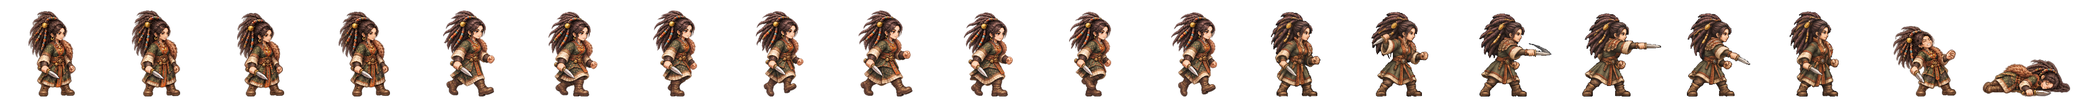
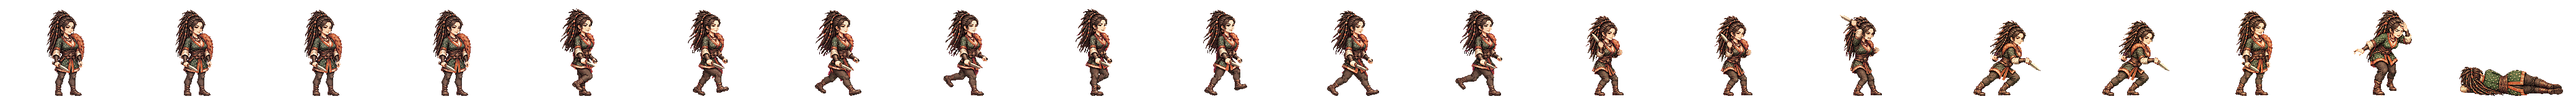
환나 가비 새 전투 띠를 게임에 넣음(서기·걷기·단검 내려베기 여덟 칸·쓰러짐·구슬 머리 쓸어 넘기기)
Claude-Session: https://claude.ai/code/session_01TRiuN7s6aDfSnaHxrkctmU

Changed region(s): [[0.0, 0.0938, 1.0, 0.9688]]

diff --git a/src/realm/data/spritePx.ts b/src/realm/data/spritePx.ts
@@ -1,3 +1,3 @@
 /** public/realm/anim-px/manifest.json 의 사본 — tools/sprite-normalize.mjs 가 만든다 (손으로 고치지 말 것). 칸 [가로, 세로] · feet = 발 줄(칸 위에서 y) · bodyPx = 서 있는 몸 키 */
 import { expandManifest } from './sprite-manifest.ts'
-export const SPRITE_PX: Readonly<Record<string, { readonly cell: readonly [number, number]; readonly feet: number; readonly bodyPx: number; readonly kind: 'general' | 'soldier' | 'folk' | 'crowd'; readonly cells: number }>> = expandManifest<{ readonly cell: readonly [number, number]; readonly feet: number; readonly bodyPx: number; readonly kind: 'general' | 'soldier' | 'folk' | 'crowd'; readonly cells: number }>([{"cell":[166,128],"feet":126,"bodyPx":124,"kind":"soldier","cells":20},{"cell":[116,128],"feet":126,"bodyPx":117,"kind":"soldier","cells":20},{"cell":[127,128],"feet":126,"bodyPx":116,"kind":"soldier","cells":20},{"cell":[269,128],"feet":126,"bodyPx":126,"kind":"soldier","cells":20},{"cell":[503,128],"feet":126,"bodyPx":127,"kind":"soldier","cells":20},{"cell":[614,128],"feet":126,"bodyPx":126,"kind":"soldier","cells":20},{"cell":[200,160],"feet":156,"bodyPx":138,"kind":"general","cells":20},{"cell":[208,160],"feet":155,"bodyPx":138,"kind":"general","cells":20},{"cell":[208,160],"feet":154,"bodyPx":138,"kind":"general","cells":20},{"cell":[304,160],"feet":155,"bodyPx":135,"kind":"general","cells":20},{"cell":[224,160],"feet":156,"bodyPx":139,"kind":"general","cells":20},{"cell":[184,160],"feet":156,"bodyPx":138,"kind":"general","cells":20},{"cell":[208,160],"feet":154,"bodyPx":136,"kind":"general","cells":20},{"cell":[240,160],"feet":156,"bodyPx":138,"kind":"general","cells":20},{"cell":[232,160],"feet":156,"bodyPx":138,"kind":"general","cells":20},{"cell":[208,160],"feet":156,"bodyPx":138,"kind":"general","cells":20},{"cell":[192,160],"feet":156,"bodyPx":138,"kind":"general","cells":20},{"cell":[168,160],"feet":156,"bodyPx":124,"kind":"general","cells":20},{"cell":[216,160],"feet":156,"bodyPx":130,"kind":"general","cells":20},{"cell":[200,160],"feet":156,"bodyPx":116,"kind":"general","cells":20},{"cell":[200,160],"feet":156,"bodyPx":135,"kind":"general","cells":20},{"cell":[280,160],"feet":156,"bodyPx":138,"kind":"general","cells":20},{"cell":[232,160],"feet":155,"bodyPx":138,"kind":"general","cells":20},{"cell":[232,160],"feet":156,"bodyPx":134,"kind":"general","cells":20},{"cell":[144,160],"feet":156,"bodyPx":70,"kind":"general","cells":20},{"cell":[208,160],"feet":156,"bodyPx":70,"kind":"general","cells":20},{"cell":[192,160],"feet":156,"bodyPx":70,"kind":"general","cells":20},{"cell":[240,160],"feet":155,"bodyPx":138,"kind":"general","cells":20},{"cell":[160,160],"feet":156,"bodyPx":135,"kind":"general","cells":20},{"cell":[192,160],"feet":156,"bodyPx":128,"kind":"general","cells":20},{"cell":[224,160],"feet":155,"bodyPx":138,"kind":"general","cells":20},{"cell":[232,160],"feet":156,"bodyPx":139,"kind":"general","cells":20},{"cell":[216,160],"feet":156,"bodyPx":138,"kind":"general","cells":20},{"cell":[208,160],"feet":156,"bodyPx":134,"kind":"general","cells":20},{"cell":[176,160],"feet":156,"bodyPx":130,"kind":"general","cells":20},{"cell":[248,160],"feet":156,"bodyPx":138,"kind":"general","cells":20},{"cell":[248,160],"feet":155,"bodyPx":138,"kind":"general","cells":20},{"cell":[192,160],"feet":155,"bodyPx":138,"kind":"general","cells":20},{"cell":[192,160],"feet":156,"bodyPx":124,"kind":"general","cells":20},{"cell":[208,160],"feet":154,"bodyPx":131,"kind":"general","cells":20},{"cell":[256,160],"feet":156,"bodyPx":138,"kind":"general","cells":20},{"cell":[232,160],"feet":156,"bodyPx":73,"kind":"general","cells":20},{"cell":[256,160],"feet":155,"bodyPx":138,"kind":"general","cells":20},{"cell":[264,160],"feet":156,"bodyPx":138,"kind":"general","cells":20},{"cell":[224,160],"feet":156,"bodyPx":138,"kind":"general","cells":20},{"cell":[224,160],"feet":156,"bodyPx":128,"kind":"general","cells":20},{"cell":[176,160],"feet":156,"bodyPx":129,"kind":"general","cells":20},{"cell":[208,160],"feet":154,"bodyPx":139,"kind":"general","cells":20},{"cell":[208,160],"feet":156,"bodyPx":132,"kind":"general","cells":20},{"cell":[216,160],"feet":155,"bodyPx":138,"kind":"general","cells":20},{"cell":[184,160],"feet":156,"bodyPx":122,"kind":"general","cells":20},{"cell":[176,160],"feet":156,"bodyPx":138,"kind":"general","cells":20},{"cell":[280,160],"feet":155,"bodyPx":133,"kind":"general","cells":20},{"cell":[176,160],"feet":156,"bodyPx":70,"kind":"general","cells":20},{"cell":[186,128],"feet":126,"bodyPx":127,"kind":"soldier","cells":20},{"cell":[298,128],"feet":126,"bodyPx":126,"kind":"soldier","cells":20},{"cell":[82,128],"feet":126,"bodyPx":114,"kind":"folk","cells":8},{"cell":[134,128],"feet":126,"bodyPx":119,"kind":"soldier","cells":20},{"cell":[380,128],"feet":126,"bodyPx":124,"kind":"soldier","cells":20},{"cell":[114,128],"feet":126,"bodyPx":115,"kind":"soldier","cells":20},{"cell":[122,128],"feet":126,"bodyPx":114,"kind":"soldier","cells":20},{"cell":[254,128],"feet":126,"bodyPx":128,"kind":"soldier","cells":20},{"cell":[438,128],"feet":126,"bodyPx":126,"kind":"soldier","cells":20},{"cell":[88,128],"feet":126,"bodyPx":113,"kind":"folk","cells":8},{"cell":[100,128],"feet":126,"bodyPx":115,"kind":"folk","cells":8},{"cell":[108,128],"feet":126,"bodyPx":115,"kind":"folk","cells":8},{"cell":[63,128],"feet":126,"bodyPx":113,"kind":"folk","cells":8},{"cell":[69,96],"feet":96,"bodyPx":96,"kind":"crowd","cells":1},{"cell":[54,96],"feet":96,"bodyPx":96,"kind":"crowd","cells":1},{"cell":[47,96],"feet":96,"bodyPx":96,"kind":"crowd","cells":1},{"cell":[49,96],"feet":96,"bodyPx":96,"kind":"crowd","cells":1},{"cell":[57,96],"feet":96,"bodyPx":96,"kind":"crowd","cells":1},{"cell":[55,96],"feet":96,"bodyPx":96,"kind":"crowd","cells":1},{"cell":[45,96],"feet":96,"bodyPx":96,"kind":"crowd","cells":1},{"cell":[53,96],"feet":96,"bodyPx":96,"kind":"crowd","cells":1},{"cell":[64,96],"feet":96,"bodyPx":96,"kind":"crowd","cells":1},{"cell":[184,160],"feet":156,"bodyPx":124,"kind":"general","cells":20},{"cell":[184,160],"feet":156,"bodyPx":134,"kind":"general","cells":20},{"cell":[224,160],"feet":156,"bodyPx":133,"kind":"general","cells":20},{"cell":[192,160],"feet":156,"bodyPx":135,"kind":"general","cells":20},{"cell":[184,160],"feet":156,"bodyPx":137,"kind":"general","cells":20},{"cell":[216,160],"feet":156,"bodyPx":134,"kind":"general","cells":20},{"cell":[216,160],"feet":156,"bodyPx":132,"kind":"general","cells":20},{"cell":[168,160],"feet":156,"bodyPx":138,"kind":"general","cells":20},{"cell":[288,160],"feet":156,"bodyPx":138,"kind":"general","cells":20},{"cell":[192,160],"feet":156,"bodyPx":118,"kind":"general","cells":20},{"cell":[208,160],"feet":154,"bodyPx":134,"kind":"general","cells":20},{"cell":[192,160],"feet":157,"bodyPx":139,"kind":"general","cells":20},{"cell":[184,160],"feet":156,"bodyPx":128,"kind":"general","cells":20},{"cell":[240,160],"feet":156,"bodyPx":128,"kind":"general","cells":20},{"cell":[184,160],"feet":156,"bodyPx":132,"kind":"general","cells":20},{"cell":[208,160],"feet":156,"bodyPx":123,"kind":"general","cells":20},{"cell":[208,160],"feet":154,"bodyPx":137,"kind":"general","cells":20},{"cell":[176,160],"feet":156,"bodyPx":116,"kind":"general","cells":20},{"cell":[272,160],"feet":156,"bodyPx":138,"kind":"general","cells":20},{"cell":[176,160],"feet":156,"bodyPx":122,"kind":"general","cells":20},{"cell":[232,160],"feet":156,"bodyPx":127,"kind":"general","cells":20},{"cell":[176,160],"feet":156,"bodyPx":137,"kind":"general","cells":20},{"cell":[184,160],"feet":156,"bodyPx":133,"kind":"general","cells":20}],[["axe",0],["bandit-chief",1],["bandit-club",2],["boat",3],["bow",4],["crossbow",5],["gen-adogan",6],["gen-alpyeong",7],["gen-ara",8],["gen-areum",8],["gen-aryeong",9],["gen-bakdal",6],["gen-baram",10],["gen-bdanbi",11],["gen-beom",12],["gen-beombal",11],["gen-beomi",13],["gen-bira",14],["gen-biryu",15],["gen-budeul",8],["gen-byeol",16],["gen-daemusin",17],["gen-daeso",18],["gen-dallae2",11],["gen-dalli",11],["gen-damul",19],["gen-danbi",15],["gen-dangung",16],["gen-darae",20],["gen-dokmudeom",7],["gen-duman",21],["gen-eomni",22],["gen-eureum",23],["gen-g-bow",24],["gen-g-spear",25],["gen-g-sword",26],["gen-gaennae",6],["gen-gamsil",27],["gen-gaon",28],["gen-geota",15],["gen-geumbawi",11],["gen-geumha",29],["gen-goeun",15],["gen-gom",30],["gen-gomok",15],["gen-gureum",27],["gen-guryema",16],["gen-gwaeyu",14],["gen-haebi",8],["gen-haedal",6],["gen-haesol",31],["gen-halla",7],["gen-heo",8],["gen-hneoul",11],["gen-hogong",32],["gen-hojin",15],["gen-horselord",33],["gen-hwalmi",34],["gen-hyeokgeose",16],["gen-hyeopbo",6],["gen-irang",15],["gen-jibaekho",35],["gen-jinha",36],["gen-jita",37],["gen-jumong",38],["gen-keundol",7],["gen-maehwa",39],["gen-maenun",16],["gen-malgalgi",40],["gen-mari",13],["gen-maro",35],["gen-maryeo",15],["gen-mdallae",31],["gen-mir",6],["gen-mount",41],["gen-mulbeom",42],["gen-mulsae",32],["gen-musoe",32],["gen-noeul",8],["gen-nuri",43],["gen-ocheongan",44],["gen-odi",8],["gen-odogan",6],["gen-ogan",16],["gen-oi",45],["gen-olddaeso",23],["gen-onjo",46],["gen-pidogan",15],["gen-sagong",47],["gen-sdallae",6],["gen-sincheongan",32],["gen-singwigan",32],["gen-sinneoul",8],["gen-sobeol",22],["gen-soebi",6],["gen-soebo",48],["gen-soenun",35],["gen-sogeumbi",49],["gen-songbi",44],["gen-songyang",50],["gen-sori",51],["gen-soseono",52],["gen-suro",16],["gen-tahae",6],["gen-tneoul",8],["gen-w-bow",24],["gen-w-spear",53],["gen-waechief",15],["gen-wan",32],["gen-yeodogan",15],["gen-yucheongan",15],["gen-yusugan",35],["horse",54],["marine",55],["migrant",56],["militia",57],["pike",58],["pirate-captain",59],["pirate-sword",60],["shield",61],["spear",62],["villager-builder",63],["villager-farmer",64],["villager-porter",65],["villager-woman",66],["crowd-b1",67],["crowd-b2",68],["crowd-b3",69],["crowd-b4",70],["crowd-b5",71],["crowd-b6",72],["crowd-f1",67],["crowd-f2",72],["crowd-f3",73],["crowd-f4",74],["crowd-f5",67],["crowd-f6",75],["gen-dalbit",15],["gen-base-g-07-drunk-warrior",16],["gen-base-g-40-anya-adan",15],["gen-base-w-13-young-archer",8],["gen-base-g-03-sea-trader",13],["gen-base-w-10-pirate-captain",47],["gen-base-w-64-miri-dallae",47],["gen-base-g-41-goja-bau",13],["gen-base-g-42-dokro-garam",43],["gen-base-g-09-farmer-conscript",32],["gen-base-w-02-goguryeo-lady",32],["gen-base-w-17-mahan-pearl-diver",8],["gen-base-g-17-saro-isageum",48],["gen-base-g-18-daegaya-king",76],["gen-base-g-35-dabeol-dalgu",15],["gen-base-g-19-sabeol-veteran",32],["gen-base-w-23-usisan-whale-queen",8],["gen-base-g-36-gammun-gamdol",44],["gen-base-g-20-samul-sea-lord",40],["gen-base-g-37-eumjeup-jeup",11],["gen-base-g-38-chopal-palmae",16],["gen-base-w-75-daegaya-soemoe",16],["gen-base-g-45-dabeol-deulgae",11],["gen-base-g-04-jinhan-giant",15],["gen-base-g-08-veteran",15],["gen-base-w-18-jinhan-salt-widow",15],["gen-base-w-12-court-dancer",77],["gen-base-w-83-gyeonji-beodeul",78],["gen-base-w-05-baekje-queen",79],["gen-base-w-21-baekje-court-dancer",11],["gen-base-g-01-master-smith",80],["gen-base-g-93-jomun-solgae",34],["gen-base-g-57-bihwa-neup",13],["gen-base-w-72-eumjeup-beol",8],["gen-base-w-102-garak-dana",47],["gen-base-g-68-baekje-onnuri",15],["gen-base-w-27-mokji-jinha",6],["gen-base-g-22-ungcheon-gomnae",6],["gen-base-g-23-sangdang-soedal",15],["gen-base-g-24-wansan-onsan",6],["gen-base-g-25-balla-keunmoe",32],["gen-base-g-61-heomcheuk-bawi",32],["gen-base-g-88-wander-soeul",44],["gen-base-w-14-feast-spy",6],["gen-base-g-12-silla-youth",81],["gen-base-w-08-mahan-warrior",8],["gen-base-g-62-beonye-hanul",13],["gen-base-g-63-heomcheuk-beogeum",15],["gen-base-g-84-wander-seoneul",15],["gen-base-w-50-siljik-mulga",32],["gen-base-g-46-uga-nureongso",32],["gen-base-w-80-usan-gangchi",13],["gen-base-g-47-guga-sanyanggae",32],["gen-base-w-76-gampyeong-baetsagong",8],["gen-base-g-05-mahan-chieftain",82],["gen-base-g-58-usan-uhae",15],["gen-base-g-27-maek-maekdol",15],["gen-base-w-53-hwanna-gabi",83],["gen-base-w-29-golpo-janmul",35],["gen-base-g-53-baekje-haeru",6],["gen-base-w-71-yeonna-neoul",13],["gen-base-w-79-yangmaek-solmae",32],["gen-base-w-34-chopal-deulme",8],["gen-base-g-44-maga-malgup",84],["gen-base-w-31-dabeol-dalbit",47],["gen-base-g-51-biryuna-mulgyeol",44],["gen-base-g-48-gwanna-musoe",15],["gen-base-g-32-uga-sodu",14],["gen-base-g-49-goguryeo-sona",85],["gen-base-g-30-gwanna-soemoe",44],["gen-base-g-52-tamna-oreum",11],["gen-base-g-29-yeonna-myeongsol",38],["gen-base-w-56-dongokjeo-sogeum",86],["gen-base-g-54-mokji-mahan",14],["gen-base-g-33-jeoga-metdol",16],["gen-base-w-36-baekje-maena",8],["gen-base-w-38-sangdang-bulmae",6],["gen-base-w-39-gosaburi-galmae",87],["gen-base-w-40-mujin-munui",48],["gen-base-w-41-hwanna-beodeul",88],["gen-base-w-43-uga-nuri",40],["gen-base-w-45-tamna-oreumbi",11],["gen-base-g-60-golbeol-golgae",11],["gen-base-g-61-apdok-ap",32],["gen-base-g-62-gammun-gamnamu",6],["gen-base-g-63-chopal-yeoul",35],["gen-base-g-64-michuhol-sogeumkkun",13],["gen-base-g-65-sangdang-soemangchi",44],["gen-base-g-66-geonma-malbalgup",89],["gen-base-g-67-gosaburi-buri",90],["gen-base-g-68-mujin-bitgoeul",11],["gen-base-g-69-goryong-yong",44],["gen-base-g-70-siljik-pado",13],["gen-base-w-81-byeokjin-byeolbit",14],["gen-base-w-46-geonma-maru",35],["gen-base-w-48-mujin-mudeung",13],["gen-base-g-26-gampyeong-gaetbeol",14],["gen-base-g-60-eupcha-hangyeol",91],["gen-base-g-15-shaman-man",32],["gen-base-g-85-wander-ure",35],["gen-base-g-43-hwanna-amnok",15],["gen-base-g-50-bullae-gwaha",79],["gen-base-g-55-saro-bakdal",15],["gen-base-g-56-haseulla-gwahama",6],["gen-base-w-06-buyeo-huntress",92],["gen-base-w-22-dongye-tiger-huntress",8],["gen-base-w-25-bihwa-priestess",32],["gen-base-w-24-apdok-queen",11],["gen-base-w-61-iseo-sinae",15],["gen-base-w-26-iseo-tomboy-general",8],["gen-base-g-59-yangmaek-maekson",93],["gen-aw1-haebi",44],["gen-aw1-soseono",94],["gen-aw1-gamsil",11],["gen-aw1-mir",51],["gen-aw1-dangung",6],["gen-aw1-ara",44],["gen-aw1-jumong",95],["gen-aw1-onjo",96],["gen-aw1-base-w-83-gyeonji-beodeul",16],["gen-aw1-heo",43],["gen-aw1-base-g-38-chopal-palmae",6],["gen-aw1-base-w-25-bihwa-priestess",77],["gen-aw1-sori",83],["gen-aw1-gomok",6],["gen-aw1-irang",16],["gen-aw1-budeul",83],["gen-aw1-gom",13],["gen-aw1-sdallae",6],["gen-aw1-base-w-13-young-archer",6],["gen-aw1-base-w-36-baekje-maena",97],["gen-aw1-base-g-09-farmer-conscript",43],["gen-aw1-base-w-02-goguryeo-lady",98],["gen-aw1-haedal",11],["gen-aw1-hogong",6],["gen-aw1-maehwa",51],["gen-aw1-base-w-06-buyeo-huntress",14],["gen-aw1-base-w-08-mahan-warrior",44],["gen-aw1-base-w-29-golpo-janmul",44],["gen-aw1-base-w-31-dabeol-dalbit",16],["gen-aw1-base-w-38-sangdang-bulmae",83],["gen-aw1-bira",32],["gen-aw1-base-w-53-hwanna-gabi",83],["gen-aw1-base-w-56-dongokjeo-sogeum",51],["gen-aw1-base-w-72-eumjeup-beol",16],["gen-aw1-bdanbi",83],["gen-aw1-beom",11],["gen-aw1-beombal",11],["gen-aw1-byeol",16],["gen-aw1-dalli",51],["gen-aw1-malgalgi",35],["gen-aw1-sincheongan",32]])
+export const SPRITE_PX: Readonly<Record<string, { readonly cell: readonly [number, number]; readonly feet: number; readonly bodyPx: number; readonly kind: 'general' | 'soldier' | 'folk' | 'crowd'; readonly cells: number }>> = expandManifest<{ readonly cell: readonly [number, number]; readonly feet: number; readonly bodyPx: number; readonly kind: 'general' | 'soldier' | 'folk' | 'crowd'; readonly cells: number }>([{"cell":[166,128],"feet":126,"bodyPx":124,"kind":"soldier","cells":20},{"cell":[116,128],"feet":126,"bodyPx":117,"kind":"soldier","cells":20},{"cell":[127,128],"feet":126,"bodyPx":116,"kind":"soldier","cells":20},{"cell":[269,128],"feet":126,"bodyPx":126,"kind":"soldier","cells":20},{"cell":[503,128],"feet":126,"bodyPx":127,"kind":"soldier","cells":20},{"cell":[614,128],"feet":126,"bodyPx":126,"kind":"soldier","cells":20},{"cell":[200,160],"feet":156,"bodyPx":138,"kind":"general","cells":20},{"cell":[208,160],"feet":155,"bodyPx":138,"kind":"general","cells":20},{"cell":[208,160],"feet":154,"bodyPx":138,"kind":"general","cells":20},{"cell":[304,160],"feet":155,"bodyPx":135,"kind":"general","cells":20},{"cell":[224,160],"feet":156,"bodyPx":139,"kind":"general","cells":20},{"cell":[184,160],"feet":156,"bodyPx":138,"kind":"general","cells":20},{"cell":[208,160],"feet":154,"bodyPx":136,"kind":"general","cells":20},{"cell":[240,160],"feet":156,"bodyPx":138,"kind":"general","cells":20},{"cell":[232,160],"feet":156,"bodyPx":138,"kind":"general","cells":20},{"cell":[208,160],"feet":156,"bodyPx":138,"kind":"general","cells":20},{"cell":[192,160],"feet":156,"bodyPx":138,"kind":"general","cells":20},{"cell":[168,160],"feet":156,"bodyPx":124,"kind":"general","cells":20},{"cell":[216,160],"feet":156,"bodyPx":130,"kind":"general","cells":20},{"cell":[200,160],"feet":156,"bodyPx":116,"kind":"general","cells":20},{"cell":[200,160],"feet":156,"bodyPx":135,"kind":"general","cells":20},{"cell":[280,160],"feet":156,"bodyPx":138,"kind":"general","cells":20},{"cell":[232,160],"feet":155,"bodyPx":138,"kind":"general","cells":20},{"cell":[232,160],"feet":156,"bodyPx":134,"kind":"general","cells":20},{"cell":[144,160],"feet":156,"bodyPx":70,"kind":"general","cells":20},{"cell":[208,160],"feet":156,"bodyPx":70,"kind":"general","cells":20},{"cell":[192,160],"feet":156,"bodyPx":70,"kind":"general","cells":20},{"cell":[240,160],"feet":155,"bodyPx":138,"kind":"general","cells":20},{"cell":[160,160],"feet":156,"bodyPx":135,"kind":"general","cells":20},{"cell":[192,160],"feet":156,"bodyPx":128,"kind":"general","cells":20},{"cell":[224,160],"feet":155,"bodyPx":138,"kind":"general","cells":20},{"cell":[232,160],"feet":156,"bodyPx":139,"kind":"general","cells":20},{"cell":[216,160],"feet":156,"bodyPx":138,"kind":"general","cells":20},{"cell":[208,160],"feet":156,"bodyPx":134,"kind":"general","cells":20},{"cell":[176,160],"feet":156,"bodyPx":130,"kind":"general","cells":20},{"cell":[248,160],"feet":156,"bodyPx":138,"kind":"general","cells":20},{"cell":[248,160],"feet":155,"bodyPx":138,"kind":"general","cells":20},{"cell":[192,160],"feet":155,"bodyPx":138,"kind":"general","cells":20},{"cell":[192,160],"feet":156,"bodyPx":124,"kind":"general","cells":20},{"cell":[208,160],"feet":154,"bodyPx":131,"kind":"general","cells":20},{"cell":[256,160],"feet":156,"bodyPx":138,"kind":"general","cells":20},{"cell":[232,160],"feet":156,"bodyPx":73,"kind":"general","cells":20},{"cell":[256,160],"feet":155,"bodyPx":138,"kind":"general","cells":20},{"cell":[264,160],"feet":156,"bodyPx":138,"kind":"general","cells":20},{"cell":[224,160],"feet":156,"bodyPx":138,"kind":"general","cells":20},{"cell":[224,160],"feet":156,"bodyPx":128,"kind":"general","cells":20},{"cell":[176,160],"feet":156,"bodyPx":129,"kind":"general","cells":20},{"cell":[208,160],"feet":154,"bodyPx":139,"kind":"general","cells":20},{"cell":[208,160],"feet":156,"bodyPx":132,"kind":"general","cells":20},{"cell":[216,160],"feet":155,"bodyPx":138,"kind":"general","cells":20},{"cell":[184,160],"feet":156,"bodyPx":122,"kind":"general","cells":20},{"cell":[176,160],"feet":156,"bodyPx":138,"kind":"general","cells":20},{"cell":[280,160],"feet":155,"bodyPx":133,"kind":"general","cells":20},{"cell":[176,160],"feet":156,"bodyPx":70,"kind":"general","cells":20},{"cell":[186,128],"feet":126,"bodyPx":127,"kind":"soldier","cells":20},{"cell":[298,128],"feet":126,"bodyPx":126,"kind":"soldier","cells":20},{"cell":[82,128],"feet":126,"bodyPx":114,"kind":"folk","cells":8},{"cell":[134,128],"feet":126,"bodyPx":119,"kind":"soldier","cells":20},{"cell":[380,128],"feet":126,"bodyPx":124,"kind":"soldier","cells":20},{"cell":[114,128],"feet":126,"bodyPx":115,"kind":"soldier","cells":20},{"cell":[122,128],"feet":126,"bodyPx":114,"kind":"soldier","cells":20},{"cell":[254,128],"feet":126,"bodyPx":128,"kind":"soldier","cells":20},{"cell":[438,128],"feet":126,"bodyPx":126,"kind":"soldier","cells":20},{"cell":[88,128],"feet":126,"bodyPx":113,"kind":"folk","cells":8},{"cell":[100,128],"feet":126,"bodyPx":115,"kind":"folk","cells":8},{"cell":[108,128],"feet":126,"bodyPx":115,"kind":"folk","cells":8},{"cell":[63,128],"feet":126,"bodyPx":113,"kind":"folk","cells":8},{"cell":[69,96],"feet":96,"bodyPx":96,"kind":"crowd","cells":1},{"cell":[54,96],"feet":96,"bodyPx":96,"kind":"crowd","cells":1},{"cell":[47,96],"feet":96,"bodyPx":96,"kind":"crowd","cells":1},{"cell":[49,96],"feet":96,"bodyPx":96,"kind":"crowd","cells":1},{"cell":[57,96],"feet":96,"bodyPx":96,"kind":"crowd","cells":1},{"cell":[55,96],"feet":96,"bodyPx":96,"kind":"crowd","cells":1},{"cell":[45,96],"feet":96,"bodyPx":96,"kind":"crowd","cells":1},{"cell":[53,96],"feet":96,"bodyPx":96,"kind":"crowd","cells":1},{"cell":[64,96],"feet":96,"bodyPx":96,"kind":"crowd","cells":1},{"cell":[184,160],"feet":156,"bodyPx":124,"kind":"general","cells":20},{"cell":[184,160],"feet":156,"bodyPx":134,"kind":"general","cells":20},{"cell":[224,160],"feet":156,"bodyPx":133,"kind":"general","cells":20},{"cell":[192,160],"feet":156,"bodyPx":135,"kind":"general","cells":20},{"cell":[184,160],"feet":156,"bodyPx":137,"kind":"general","cells":20},{"cell":[216,160],"feet":156,"bodyPx":134,"kind":"general","cells":20},{"cell":[216,160],"feet":156,"bodyPx":132,"kind":"general","cells":20},{"cell":[288,160],"feet":156,"bodyPx":138,"kind":"general","cells":20},{"cell":[192,160],"feet":156,"bodyPx":118,"kind":"general","cells":20},{"cell":[208,160],"feet":154,"bodyPx":134,"kind":"general","cells":20},{"cell":[192,160],"feet":157,"bodyPx":139,"kind":"general","cells":20},{"cell":[184,160],"feet":156,"bodyPx":128,"kind":"general","cells":20},{"cell":[240,160],"feet":156,"bodyPx":128,"kind":"general","cells":20},{"cell":[184,160],"feet":156,"bodyPx":132,"kind":"general","cells":20},{"cell":[208,160],"feet":156,"bodyPx":123,"kind":"general","cells":20},{"cell":[208,160],"feet":154,"bodyPx":137,"kind":"general","cells":20},{"cell":[176,160],"feet":156,"bodyPx":116,"kind":"general","cells":20},{"cell":[272,160],"feet":156,"bodyPx":138,"kind":"general","cells":20},{"cell":[176,160],"feet":156,"bodyPx":122,"kind":"general","cells":20},{"cell":[232,160],"feet":156,"bodyPx":127,"kind":"general","cells":20},{"cell":[168,160],"feet":156,"bodyPx":138,"kind":"general","cells":20},{"cell":[176,160],"feet":156,"bodyPx":137,"kind":"general","cells":20},{"cell":[184,160],"feet":156,"bodyPx":133,"kind":"general","cells":20}],[["axe",0],["bandit-chief",1],["bandit-club",2],["boat",3],["bow",4],["crossbow",5],["gen-adogan",6],["gen-alpyeong",7],["gen-ara",8],["gen-areum",8],["gen-aryeong",9],["gen-bakdal",6],["gen-baram",10],["gen-bdanbi",11],["gen-beom",12],["gen-beombal",11],["gen-beomi",13],["gen-bira",14],["gen-biryu",15],["gen-budeul",8],["gen-byeol",16],["gen-daemusin",17],["gen-daeso",18],["gen-dallae2",11],["gen-dalli",11],["gen-damul",19],["gen-danbi",15],["gen-dangung",16],["gen-darae",20],["gen-dokmudeom",7],["gen-duman",21],["gen-eomni",22],["gen-eureum",23],["gen-g-bow",24],["gen-g-spear",25],["gen-g-sword",26],["gen-gaennae",6],["gen-gamsil",27],["gen-gaon",28],["gen-geota",15],["gen-geumbawi",11],["gen-geumha",29],["gen-goeun",15],["gen-gom",30],["gen-gomok",15],["gen-gureum",27],["gen-guryema",16],["gen-gwaeyu",14],["gen-haebi",8],["gen-haedal",6],["gen-haesol",31],["gen-halla",7],["gen-heo",8],["gen-hneoul",11],["gen-hogong",32],["gen-hojin",15],["gen-horselord",33],["gen-hwalmi",34],["gen-hyeokgeose",16],["gen-hyeopbo",6],["gen-irang",15],["gen-jibaekho",35],["gen-jinha",36],["gen-jita",37],["gen-jumong",38],["gen-keundol",7],["gen-maehwa",39],["gen-maenun",16],["gen-malgalgi",40],["gen-mari",13],["gen-maro",35],["gen-maryeo",15],["gen-mdallae",31],["gen-mir",6],["gen-mount",41],["gen-mulbeom",42],["gen-mulsae",32],["gen-musoe",32],["gen-noeul",8],["gen-nuri",43],["gen-ocheongan",44],["gen-odi",8],["gen-odogan",6],["gen-ogan",16],["gen-oi",45],["gen-olddaeso",23],["gen-onjo",46],["gen-pidogan",15],["gen-sagong",47],["gen-sdallae",6],["gen-sincheongan",32],["gen-singwigan",32],["gen-sinneoul",8],["gen-sobeol",22],["gen-soebi",6],["gen-soebo",48],["gen-soenun",35],["gen-sogeumbi",49],["gen-songbi",44],["gen-songyang",50],["gen-sori",51],["gen-soseono",52],["gen-suro",16],["gen-tahae",6],["gen-tneoul",8],["gen-w-bow",24],["gen-w-spear",53],["gen-waechief",15],["gen-wan",32],["gen-yeodogan",15],["gen-yucheongan",15],["gen-yusugan",35],["horse",54],["marine",55],["migrant",56],["militia",57],["pike",58],["pirate-captain",59],["pirate-sword",60],["shield",61],["spear",62],["villager-builder",63],["villager-farmer",64],["villager-porter",65],["villager-woman",66],["crowd-b1",67],["crowd-b2",68],["crowd-b3",69],["crowd-b4",70],["crowd-b5",71],["crowd-b6",72],["crowd-f1",67],["crowd-f2",72],["crowd-f3",73],["crowd-f4",74],["crowd-f5",67],["crowd-f6",75],["gen-dalbit",15],["gen-base-g-07-drunk-warrior",16],["gen-base-g-40-anya-adan",15],["gen-base-w-13-young-archer",8],["gen-base-g-03-sea-trader",13],["gen-base-w-10-pirate-captain",47],["gen-base-w-64-miri-dallae",47],["gen-base-g-41-goja-bau",13],["gen-base-g-42-dokro-garam",43],["gen-base-g-09-farmer-conscript",32],["gen-base-w-02-goguryeo-lady",32],["gen-base-w-17-mahan-pearl-diver",8],["gen-base-g-17-saro-isageum",48],["gen-base-g-18-daegaya-king",76],["gen-base-g-35-dabeol-dalgu",15],["gen-base-g-19-sabeol-veteran",32],["gen-base-w-23-usisan-whale-queen",8],["gen-base-g-36-gammun-gamdol",44],["gen-base-g-20-samul-sea-lord",40],["gen-base-g-37-eumjeup-jeup",11],["gen-base-g-38-chopal-palmae",16],["gen-base-w-75-daegaya-soemoe",16],["gen-base-g-45-dabeol-deulgae",11],["gen-base-g-04-jinhan-giant",15],["gen-base-g-08-veteran",15],["gen-base-w-18-jinhan-salt-widow",15],["gen-base-w-12-court-dancer",77],["gen-base-w-83-gyeonji-beodeul",78],["gen-base-w-05-baekje-queen",79],["gen-base-w-21-baekje-court-dancer",11],["gen-base-g-01-master-smith",80],["gen-base-g-93-jomun-solgae",34],["gen-base-g-57-bihwa-neup",13],["gen-base-w-72-eumjeup-beol",8],["gen-base-w-102-garak-dana",47],["gen-base-g-68-baekje-onnuri",15],["gen-base-w-27-mokji-jinha",6],["gen-base-g-22-ungcheon-gomnae",6],["gen-base-g-23-sangdang-soedal",15],["gen-base-g-24-wansan-onsan",6],["gen-base-g-25-balla-keunmoe",32],["gen-base-g-61-heomcheuk-bawi",32],["gen-base-g-88-wander-soeul",44],["gen-base-w-14-feast-spy",6],["gen-base-g-12-silla-youth",81],["gen-base-w-08-mahan-warrior",8],["gen-base-g-62-beonye-hanul",13],["gen-base-g-63-heomcheuk-beogeum",15],["gen-base-g-84-wander-seoneul",15],["gen-base-w-50-siljik-mulga",32],["gen-base-g-46-uga-nureongso",32],["gen-base-w-80-usan-gangchi",13],["gen-base-g-47-guga-sanyanggae",32],["gen-base-w-76-gampyeong-baetsagong",8],["gen-base-g-05-mahan-chieftain",82],["gen-base-g-58-usan-uhae",15],["gen-base-g-27-maek-maekdol",15],["gen-base-w-53-hwanna-gabi",47],["gen-base-w-29-golpo-janmul",35],["gen-base-g-53-baekje-haeru",6],["gen-base-w-71-yeonna-neoul",13],["gen-base-w-79-yangmaek-solmae",32],["gen-base-w-34-chopal-deulme",8],["gen-base-g-44-maga-malgup",83],["gen-base-w-31-dabeol-dalbit",47],["gen-base-g-51-biryuna-mulgyeol",44],["gen-base-g-48-gwanna-musoe",15],["gen-base-g-32-uga-sodu",14],["gen-base-g-49-goguryeo-sona",84],["gen-base-g-30-gwanna-soemoe",44],["gen-base-g-52-tamna-oreum",11],["gen-base-g-29-yeonna-myeongsol",38],["gen-base-w-56-dongokjeo-sogeum",85],["gen-base-g-54-mokji-mahan",14],["gen-base-g-33-jeoga-metdol",16],["gen-base-w-36-baekje-maena",8],["gen-base-w-38-sangdang-bulmae",6],["gen-base-w-39-gosaburi-galmae",86],["gen-base-w-40-mujin-munui",48],["gen-base-w-41-hwanna-beodeul",87],["gen-base-w-43-uga-nuri",40],["gen-base-w-45-tamna-oreumbi",11],["gen-base-g-60-golbeol-golgae",11],["gen-base-g-61-apdok-ap",32],["gen-base-g-62-gammun-gamnamu",6],["gen-base-g-63-chopal-yeoul",35],["gen-base-g-64-michuhol-sogeumkkun",13],["gen-base-g-65-sangdang-soemangchi",44],["gen-base-g-66-geonma-malbalgup",88],["gen-base-g-67-gosaburi-buri",89],["gen-base-g-68-mujin-bitgoeul",11],["gen-base-g-69-goryong-yong",44],["gen-base-g-70-siljik-pado",13],["gen-base-w-81-byeokjin-byeolbit",14],["gen-base-w-46-geonma-maru",35],["gen-base-w-48-mujin-mudeung",13],["gen-base-g-26-gampyeong-gaetbeol",14],["gen-base-g-60-eupcha-hangyeol",90],["gen-base-g-15-shaman-man",32],["gen-base-g-85-wander-ure",35],["gen-base-g-43-hwanna-amnok",15],["gen-base-g-50-bullae-gwaha",79],["gen-base-g-55-saro-bakdal",15],["gen-base-g-56-haseulla-gwahama",6],["gen-base-w-06-buyeo-huntress",91],["gen-base-w-22-dongye-tiger-huntress",8],["gen-base-w-25-bihwa-priestess",32],["gen-base-w-24-apdok-queen",11],["gen-base-w-61-iseo-sinae",15],["gen-base-w-26-iseo-tomboy-general",8],["gen-base-g-59-yangmaek-maekson",92],["gen-aw1-haebi",44],["gen-aw1-soseono",93],["gen-aw1-gamsil",11],["gen-aw1-mir",51],["gen-aw1-dangung",6],["gen-aw1-ara",44],["gen-aw1-jumong",94],["gen-aw1-onjo",95],["gen-aw1-base-w-83-gyeonji-beodeul",16],["gen-aw1-heo",43],["gen-aw1-base-g-38-chopal-palmae",6],["gen-aw1-base-w-25-bihwa-priestess",77],["gen-aw1-sori",96],["gen-aw1-gomok",6],["gen-aw1-irang",16],["gen-aw1-budeul",96],["gen-aw1-gom",13],["gen-aw1-sdallae",6],["gen-aw1-base-w-13-young-archer",6],["gen-aw1-base-w-36-baekje-maena",97],["gen-aw1-base-g-09-farmer-conscript",43],["gen-aw1-base-w-02-goguryeo-lady",98],["gen-aw1-haedal",11],["gen-aw1-hogong",6],["gen-aw1-maehwa",51],["gen-aw1-base-w-06-buyeo-huntress",14],["gen-aw1-base-w-08-mahan-warrior",44],["gen-aw1-base-w-29-golpo-janmul",44],["gen-aw1-base-w-31-dabeol-dalbit",16],["gen-aw1-base-w-38-sangdang-bulmae",96],["gen-aw1-bira",32],["gen-aw1-base-w-53-hwanna-gabi",96],["gen-aw1-base-w-56-dongokjeo-sogeum",51],["gen-aw1-base-w-72-eumjeup-beol",16],["gen-aw1-bdanbi",96],["gen-aw1-beom",11],["gen-aw1-beombal",11],["gen-aw1-byeol",16],["gen-aw1-dalli",51],["gen-aw1-malgalgi",35],["gen-aw1-sincheongan",32]])

diff --git a/src/duel/view.ts b/src/duel/view.ts
@@ -100,7 +100,7 @@ const crowdFront = [1, 2, 3, 4, 5, 6].map((i) => img(`realm/duel/crowd/b${i}.png
 const crowdReady = (set: HTMLImageElement[]): boolean => set.every((im) => im.complete && im.naturalWidth > 0)
 const pxMode = cfg.px !== false && params.get('px') !== '0'
 /** 겨루기 전용 옛 띠(duel/sprites) 대신 열전과 같은 도트 띠(anim-px)를 쓰는 장수 — 두 판에서 같은 모습 · 서기 계획·쓰러지는 칸도 같다 (11-23 범 · 매화 · 달빛 · 11-24 해비 · 아룸) */
-const PX_DUEL: ReadonlySet<string> = new Set(['beom', 'maehwa', 'base-w-31-dabeol-dalbit', 'haebi', 'areum', 'base-w-13-young-archer', 'base-w-10-pirate-captain', 'base-w-17-mahan-pearl-diver', 'base-w-06-buyeo-huntress', 'base-w-64-miri-dallae', 'ara', 'base-w-22-dongye-tiger-huntress', 'noeul', 'sagong', 'sinneoul', 'heo', 'base-w-08-mahan-warrior', 'base-w-23-usisan-whale-queen', 'base-w-26-iseo-tomboy-general', 'base-w-72-eumjeup-beol', 'tneoul', 'odi', 'base-w-76-gampyeong-baetsagong', 'base-w-34-chopal-deulme', 'base-w-102-garak-dana', 'base-w-36-baekje-maena', 'base-w-56-dongokjeo-sogeum', 'budeul'])
+const PX_DUEL: ReadonlySet<string> = new Set(['beom', 'maehwa', 'base-w-31-dabeol-dalbit', 'haebi', 'areum', 'base-w-13-young-archer', 'base-w-10-pirate-captain', 'base-w-17-mahan-pearl-diver', 'base-w-06-buyeo-huntress', 'base-w-64-miri-dallae', 'ara', 'base-w-22-dongye-tiger-huntress', 'noeul', 'sagong', 'sinneoul', 'heo', 'base-w-08-mahan-warrior', 'base-w-23-usisan-whale-queen', 'base-w-26-iseo-tomboy-general', 'base-w-72-eumjeup-beol', 'tneoul', 'odi', 'base-w-76-gampyeong-baetsagong', 'base-w-34-chopal-deulme', 'base-w-102-garak-dana', 'base-w-36-baekje-maena', 'base-w-56-dongokjeo-sogeum', 'budeul', 'base-w-53-hwanna-gabi'])
 /** 띠 그림 — 기본은 anim-px(도트 규격) 먼저, 없으면 옛 띠로 (img 의 onerror 가 갈아 끼운다) */
 const strip = (s: string): HTMLImageElement => pxMode
   ? DUEL_ATLASES[s] !== undefined && !PX_DUEL.has(s) ? img(`realm/duel/sprites/gen-${s}.png`, `realm/anim-px/gen-${s}.png`)

diff --git a/src/tune/params.ts b/src/tune/params.ts
@@ -1447,6 +1447,7 @@ export const HAEBI_IDLE = {
     'base-w-36-baekje-maena': { cells: 26, base: [0, 1], hold: 2.4, fall: [18, 20, 21, 19], quirk: [22, 23, 24, 25], quirkTimes: [.28, .3, .42, .25] },
     'base-w-56-dongokjeo-sogeum': { cells: 34, base: [0, 1], hold: 2.4, fall: [18, 20, 21, 19], quirk: [22, 23, 24, 25], quirkTimes: [.3, .32, .4, .28], attack: { cells: [26, 27, 28, 29, 30, 31, 32, 33], times: [.09, .08, .11, .05, .15, .07, .08, .12], hit: 4 }, xGeom: { h: 224, root: 92, foot: 216 } },
     budeul: { cells: 34, base: [0, 1], hold: 2.4, fall: [18, 20, 21, 19], quirk: [22, 23, 24, 25], quirkTimes: [.3, .32, .4, .28], attack: { cells: [26, 27, 28, 29, 30, 31, 32, 33], times: [.09, .08, .11, .05, .15, .07, .08, .12], hit: 4 }, xGeom: { h: 224, root: 92, foot: 216 } },
+    'base-w-53-hwanna-gabi': { cells: 34, base: [0, 1], hold: 2.4, fall: [18, 20, 21, 19], quirk: [22, 23, 24, 25], quirkTimes: [.3, .32, .4, .28], attack: { cells: [26, 27, 28, 29, 30, 31, 32, 33], times: [.09, .08, .11, .05, .15, .07, .08, .12], hit: 4 }, xGeom: { h: 224, root: 92, foot: 216 } },
   },
 } as const
 export const HAEBI_ANIM = {

diff --git a/src/raid/hero-hd.ts b/src/raid/hero-hd.ts
@@ -13,7 +13,6 @@ export const HERO_HD: Readonly<Record<string, string>> = {
   'anim-px/gen-base-w-75-daegaya-soemoe.png': 'anim-px/gen-base-w-75-daegaya-soemoe_hd.png',
   'anim-px/gen-base-w-71-yeonna-neoul.png': 'anim-px/gen-base-w-71-yeonna-neoul_hd.png',
   'anim-px/gen-base-w-61-iseo-sinae.png': 'anim-px/gen-base-w-61-iseo-sinae_hd.png',
-  'anim-px/gen-base-w-53-hwanna-gabi.png': 'anim-px/gen-base-w-53-hwanna-gabi_hd.png',
   'anim-px/gen-base-w-50-siljik-mulga.png': 'anim-px/gen-base-w-50-siljik-mulga_hd.png',
   'anim-px/gen-base-w-48-mujin-mudeung.png': 'anim-px/gen-base-w-48-mujin-mudeung_hd.png',
   'anim-px/gen-base-w-46-geonma-maru.png': 'anim-px/gen-base-w-46-geonma-maru_hd.png',
